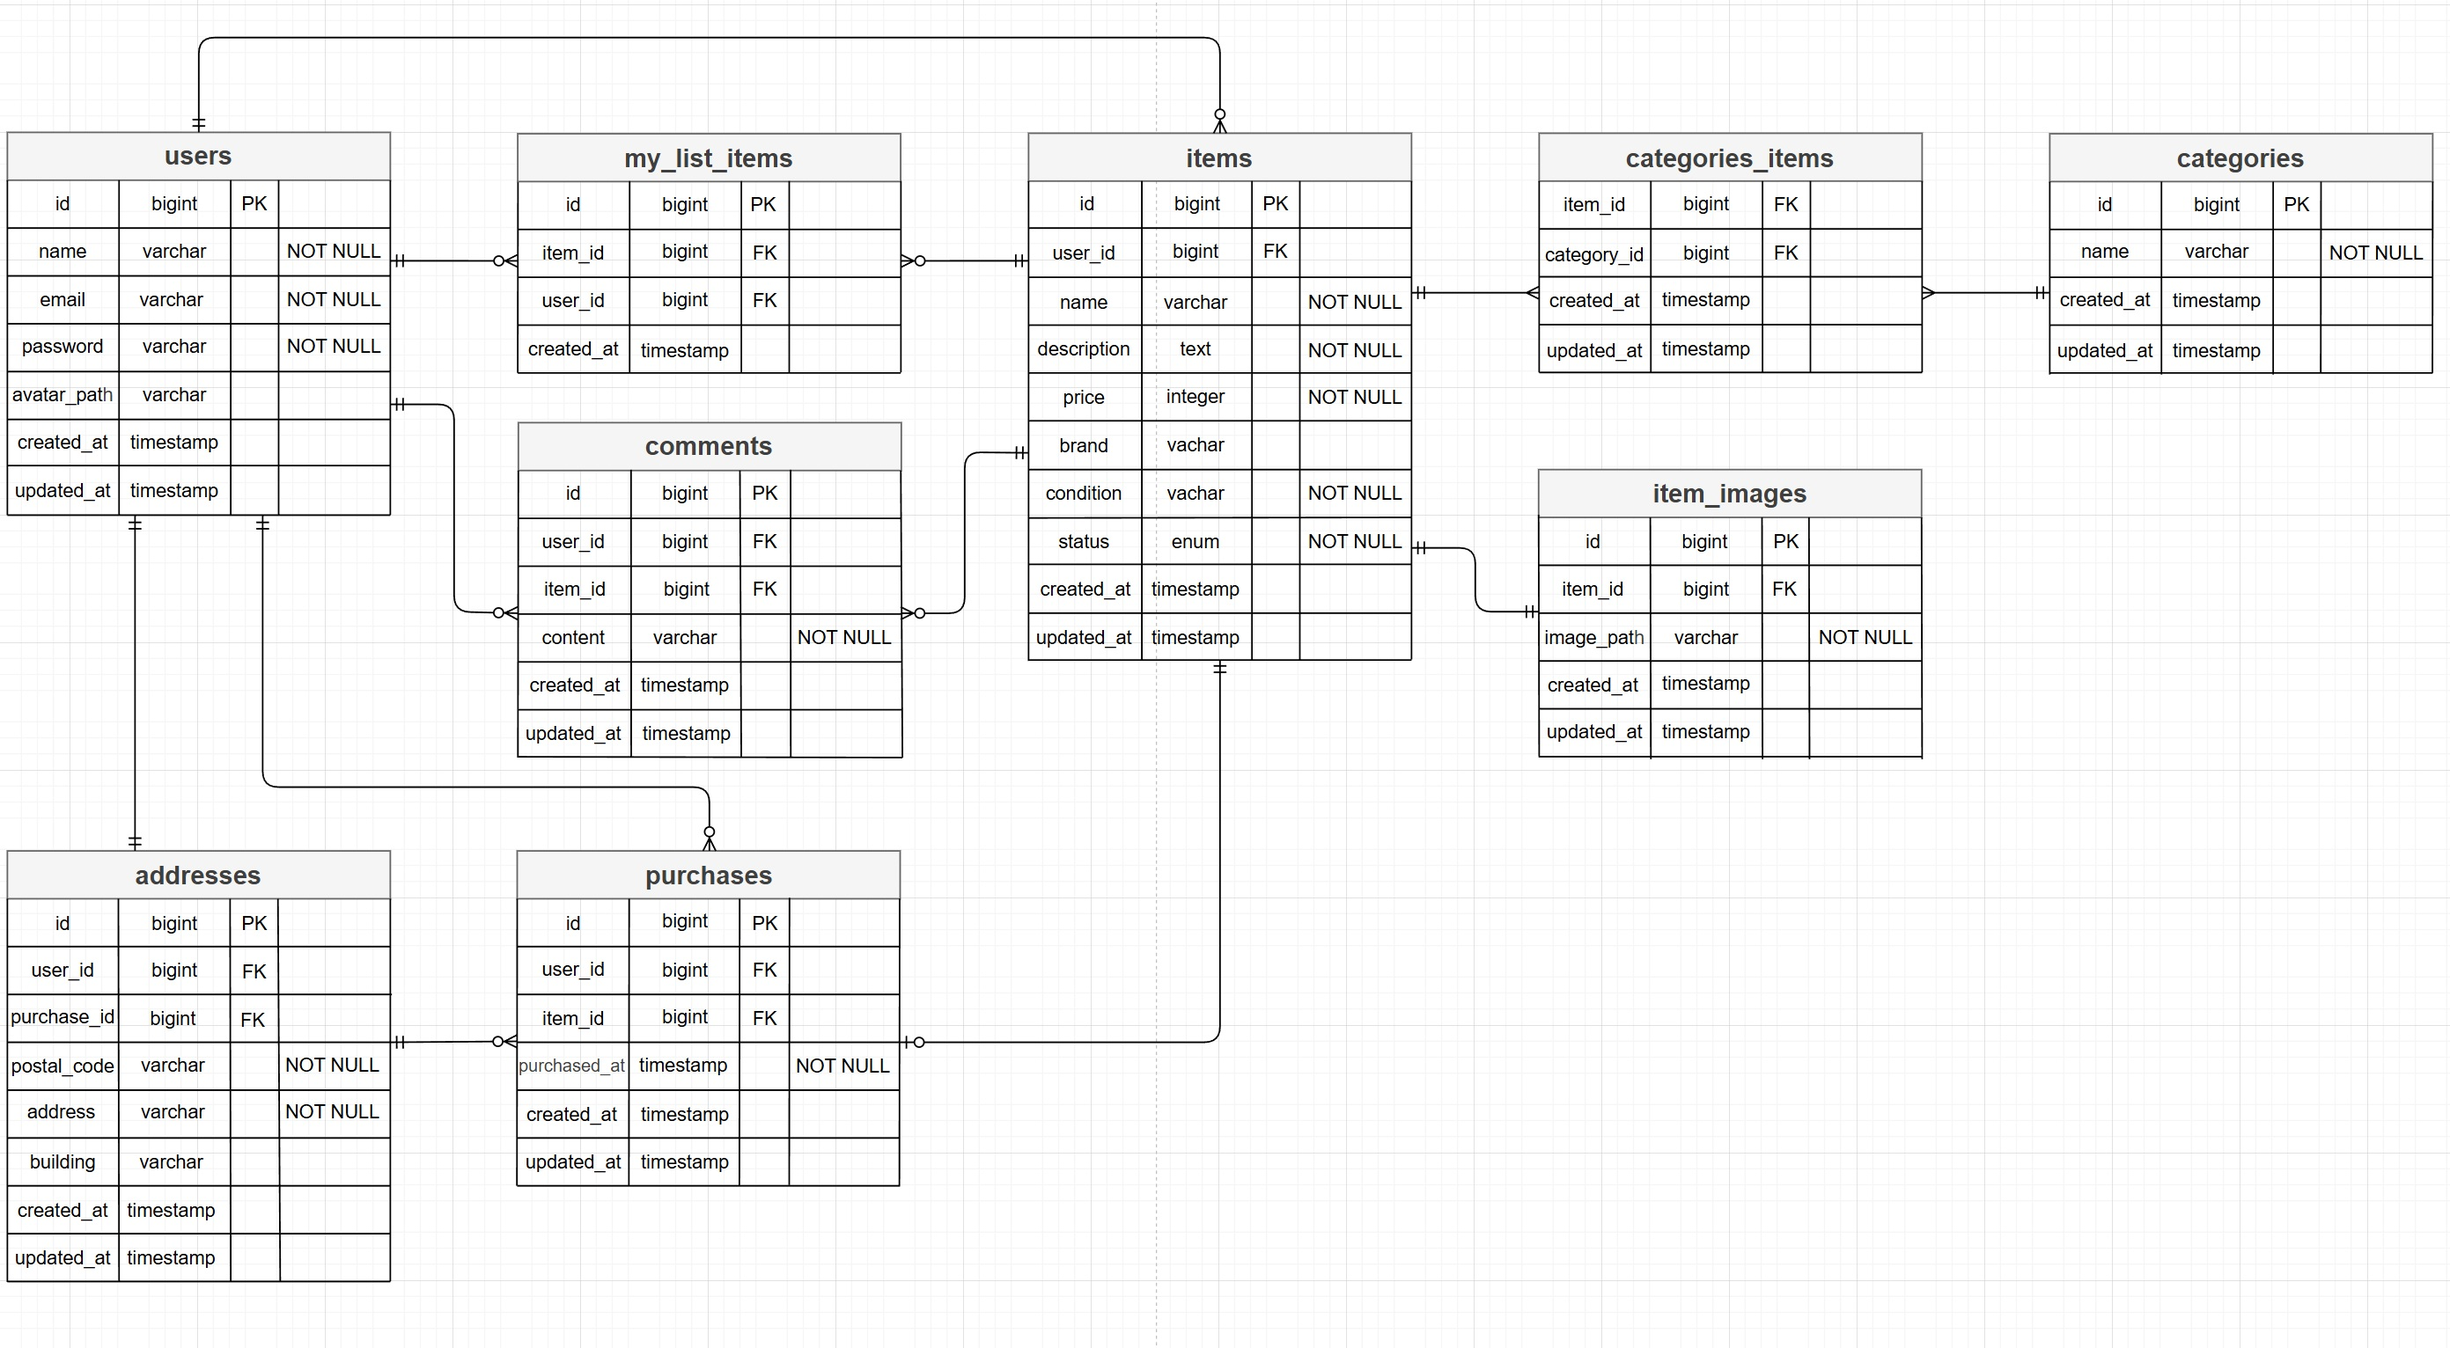
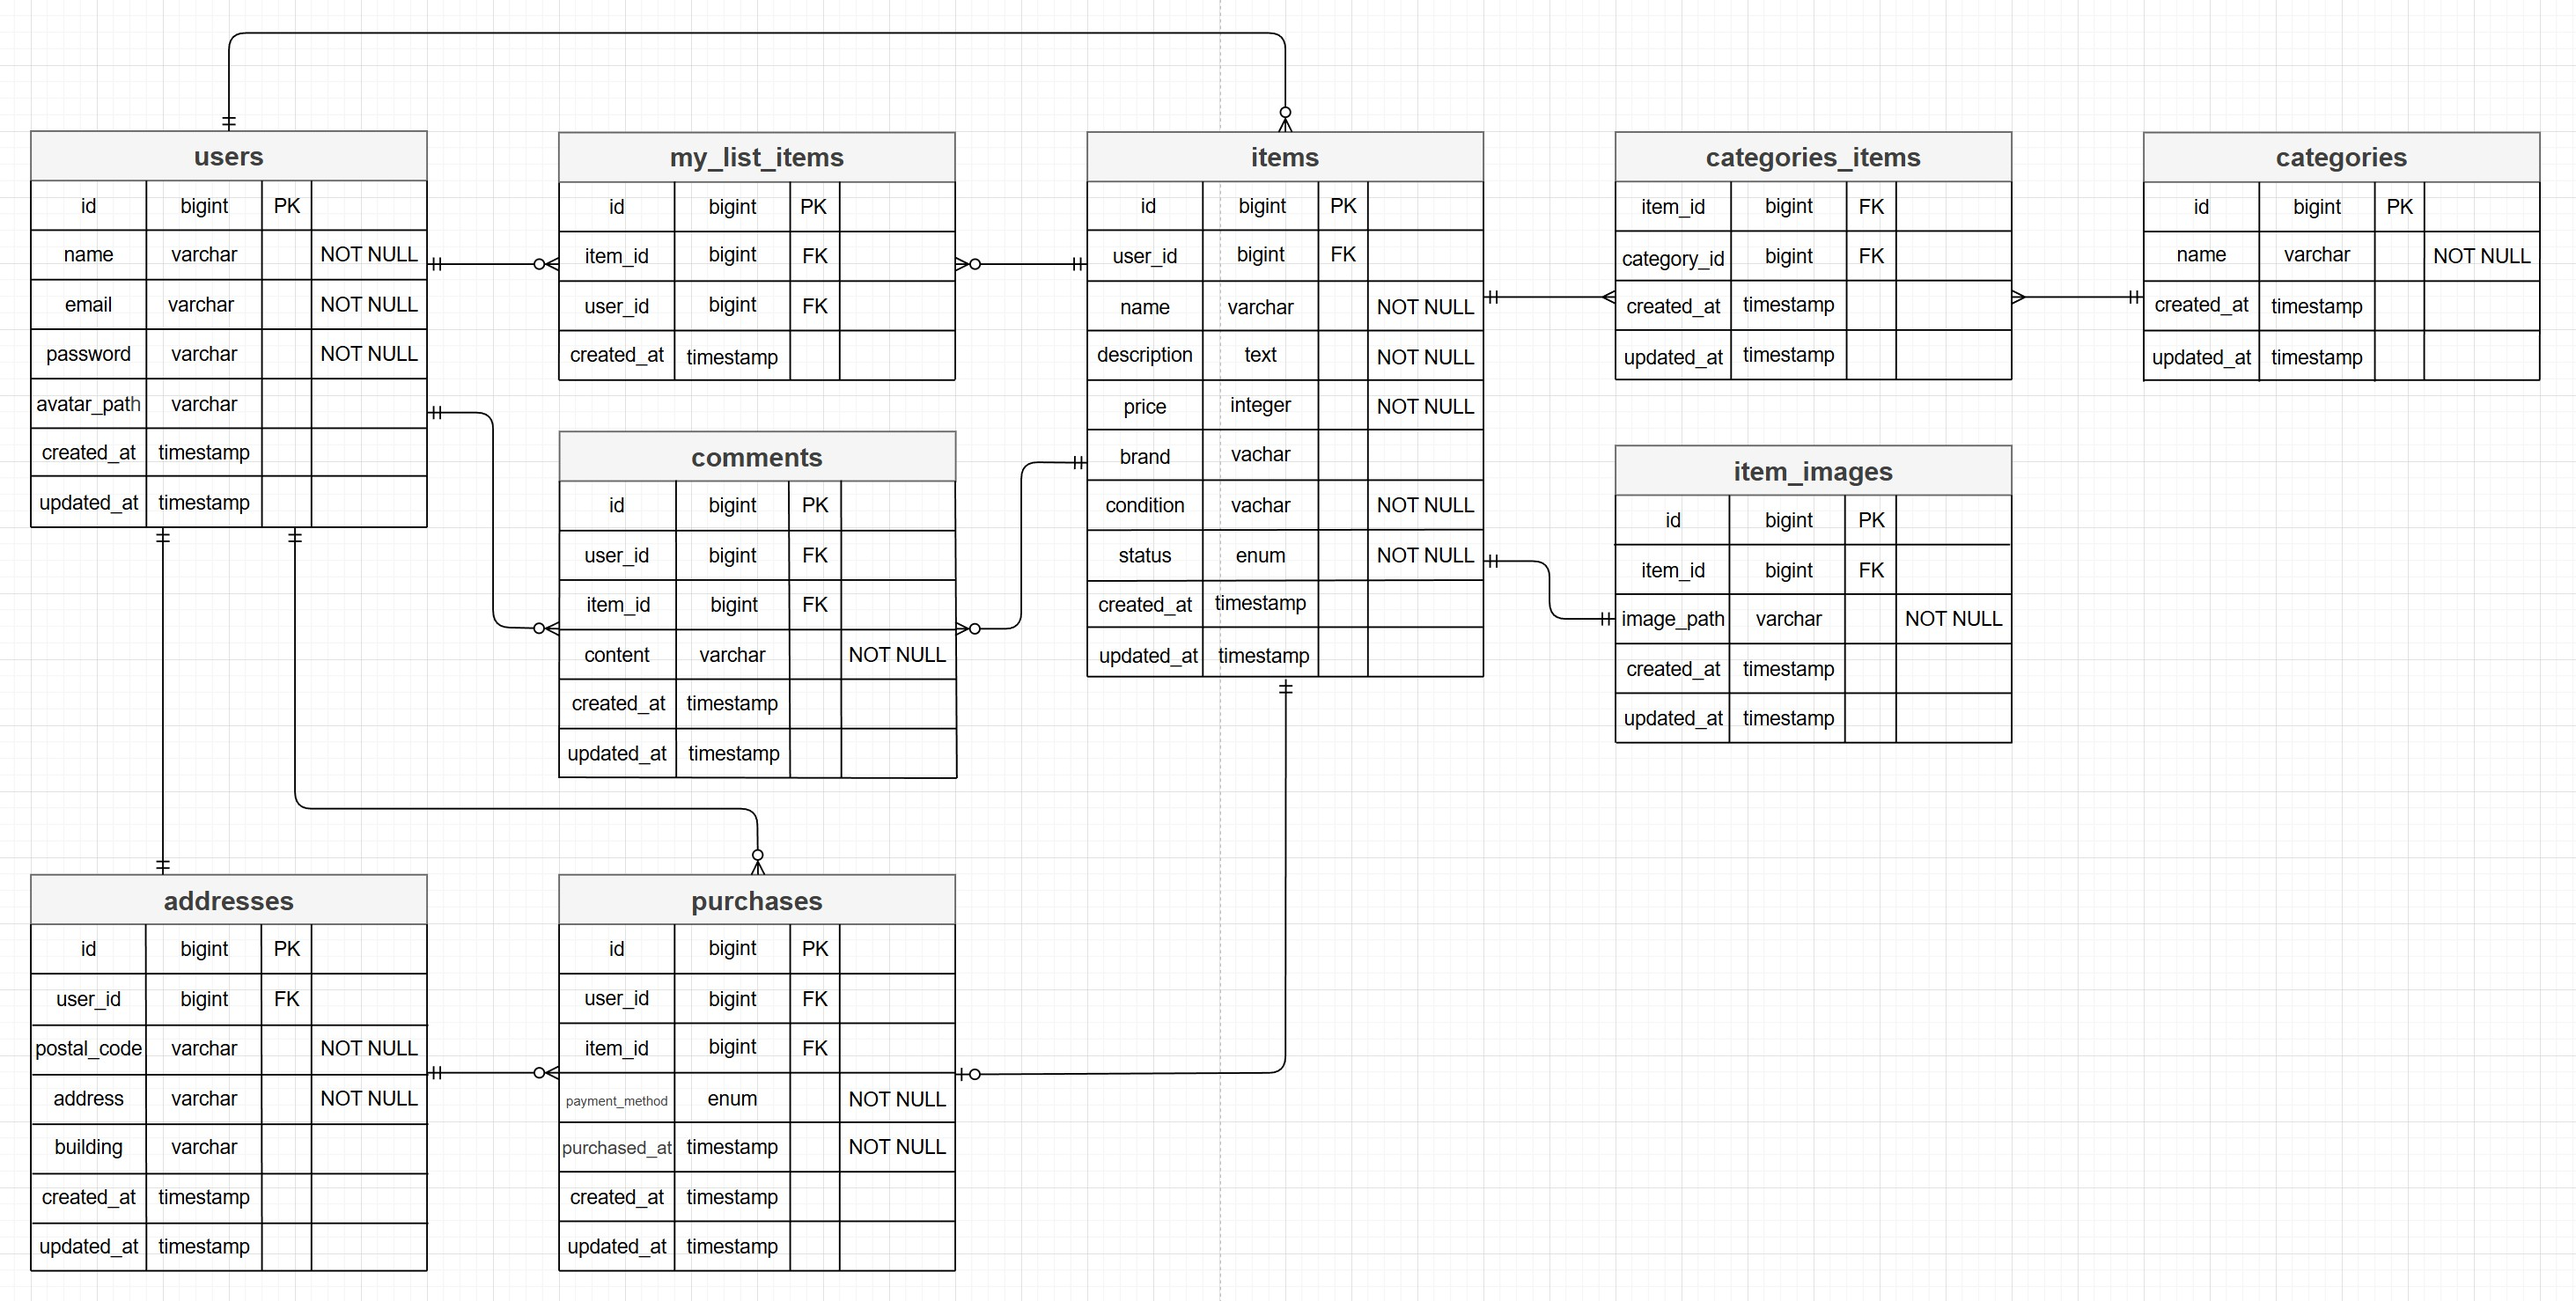
模擬案件フリマアプリ暫定補完版

diff --git a/README.md b/README.md
@@ -247,7 +247,7 @@ volumes:
 
 
 
-# ◎ 📁 ディレクトリ構造（主要部分のみ）
+# ◆ 📁 ディレクトリ構造（主要部分のみ）
 
 ```jsx
 src/
@@ -292,36 +292,213 @@ src/
 ```
 
 
+## ◆ ルート 一覧 (Route)
 
-# ◎ ルート・コントローラー 一覧 (Controller)
+----------------------------------------
+■ 画面名称：商品一覧画面（トップ画面）
+パス：/
+メソッド：GET
+コントローラー：ItemController
+アクション：index
+認証必須：不要
+説明：商品一覧ページ
+----------------------------------------
 
-| 画面名称               | パス                          | メソッド | コントローラー       | アクション   | 認証 | 説明                                                 |
-| ---------------------- | ----------------------------- | -------- | -------------------- | ------------ | ---- | ---------------------------------------------------- |
-| 商品一覧（トップ）     | `/`                           | GET      | ItemController       | index        | 不要 | 商品一覧表示                                         |
-| 商品一覧（マイリスト） | `/?tab=mylist`                | GET      | ItemController       | index        | 必須 | マイリストタブ表示                                   |
-| 会員登録画面           | `/register`                   | GET      | RegisterController   | show         | 不要 | 新規登録フォーム表示（処理は Fortify が担当）        |
-| 会員登録処理           | `/register`                   | POST     | Fortify（内部処理）  | create       | 不要 | 新規登録処理（Controller ではなく Fortify が実行）   |
-| ログイン画面           | `/login`                      | GET      | LoginController      | show         | 不要 | ログインフォーム表示（処理は Fortify が担当）        |
-| ログイン処理           | `/login`                      | POST     | Fortify（内部処理）  | authenticate | 不要 | ログイン処理（Controller ではなく Fortify が実行）   |
-| ログアウト             | `/logout`                     | POST     | Fortify（内部処理）  | logout       | 必須 | ログアウト処理（Controller ではなく Fortify が実行） |
-| 商品詳細               | `/item/{item_id}`             | GET      | ItemController       | show         | 不要 | 商品詳細                                             |
-| いいね追加             | `/item/{item_id}/like`        | POST     | MyListItemController | store        | 必須 | マイリスト追加                                       |
-| コメント投稿           | `/item/{item_id}/comments`    | POST     | CommentController    | store        | 必須 | コメント送信                                         |
-| 購入確認               | `/purchase/{item_id}`         | GET      | PurchaseController   | create       | 必須 | 購入確認画面                                         |
-| 購入処理               | `/purchase/{item_id}`         | POST     | PurchaseController   | store        | 必須 | 購入処理                                             |
-| 住所変更               | `/purchase/address/{item_id}` | GET      | AddressController    | editAddress  | 必須 | 購入時の住所変更                                     |
-| 住所変更処理           | `/purchase/address/{item_id}` | PUT      | AddressController    | updateAdress | 必須 | 住所変更処理                                         |
-| 出品画面               | `/sell`                       | GET      | ItemController       | create       | 必須 | 出品フォーム                                         |
-| 出品処理               | `/sell`                       | POST     | ItemController       | store        | 必須 | 出品処理                                             |
-| マイページ             | `/mypage`                     | GET      | ProfileController    | index        | 必須 | マイページ                                           |
-| プロフィール編集       | `/mypage/profile`             | GET      | ProfileController    | edit         | 必須 | プロフィール編集                                     |
-| プロフィール更新       | `/mypage/profile`             | PUT      | ProfileController    | update       | 必須 | プロフィール更新                                     |
-| 購入履歴タブ           | `/mypage?page=buy`            | GET      | ProfileController    | index        | 必須 | 購入履歴                                             |
-| 出品履歴タブ           | `/mypage?page=sell`           | GET      | ProfileController    | index        | 必須 | 出品履歴                                             |
+■ 画面名称：商品一覧画面（トップ画面）_マイリスト
+パス：/?tab=mylist
+メソッド：GET
+コントローラー：ItemController
+アクション：index
+認証必須：必須
+説明：マイリストタブ表示
+----------------------------------------
+
+■ 画面名称：会員登録画面
+パス：/register
+メソッド：GET
+コントローラー：RegisterController
+アクション：show
+認証必須：不要
+説明：新規登録フォーム
+----------------------------------------
+
+■ 画面名称：会員登録処理
+パス：/register
+メソッド：POST
+コントローラー：RegisterController
+アクション：register
+認証必須：不要
+説明：新規登録画面表示のみ（処理は Fortify）
+----------------------------------------
+
+■ 画面名称：ログイン画面
+パス：/login
+メソッド：GET
+コントローラー：LoginController
+アクション：show
+認証必須：不要
+説明：ログインフォーム
+----------------------------------------
+
+■ 画面名称：ログイン処理
+パス：/login
+メソッド：POST
+コントローラー：LoginController
+アクション：login
+認証必須：不要
+説明：ログイン画面遷移のみ（処理は Fortify）
+----------------------------------------
+
+■ 画面名称：ログアウト
+パス：/logout
+メソッド：POST
+コントローラー：LoginController
+アクション：logout
+認証必須：必須
+説明：ログアウト処理（Fortify）
+----------------------------------------
+
+■ 画面名称：商品詳細画面
+パス：/item/{item_id}
+メソッド：GET
+コントローラー：ItemController
+アクション：show
+認証必須：不要
+説明：商品詳細
+----------------------------------------
+
+■ 画面名称：商品詳細画面_いいね追加
+パス：/item/{item_id}/like
+メソッド：POST
+コントローラー：MyListItemController
+アクション：store
+認証必須：必須
+説明：マイリスト(いいね)追加処理
+----------------------------------------
+
+■ 画面名称：商品詳細画面_コメント投稿
+パス：/item/{item_id}/comments
+メソッド：POST
+コントローラー：CommentController
+アクション：store
+認証必須：必須
+説明：コメント送信処理
+----------------------------------------
+
+■ 画面名称：商品購入画面
+パス：/purchase/{item_id}
+メソッド：GET
+コントローラー：PurchaseController
+アクション：create
+認証必須：必須
+説明：購入確認画面
+----------------------------------------
+
+■ 画面名称：商品購入処理
+パス：/purchase/{item_id}
+メソッド：POST
+コントローラー：PurchaseController
+アクション：store
+認証必須：必須
+説明：購入処理
+----------------------------------------
+
+■ 画面名称：住所変更ページ
+パス：/purchase/address/{item_id}
+メソッド：GET
+コントローラー：AddressController
+アクション：editAddress
+認証必須：必須
+説明：購入時の住所変更
+----------------------------------------
+
+■ 画面名称：住所変更処理
+パス：/purchase/address/{item_id}
+メソッド：PUT
+コントローラー：AddressController
+アクション：updateAdress
+認証必須：必須
+説明：購入時の住所変更処理
+----------------------------------------
+
+■ 画面名称：商品出品画面
+パス：/sell
+メソッド：GET
+コントローラー：ItemController
+アクション：create
+認証必須：必須
+説明：出品フォーム
+----------------------------------------
+
+■ 画面名称：商品出品処理
+パス：/sell
+メソッド：POST
+コントローラー：ItemController
+アクション：store
+認証必須：必須
+説明：出品処理
+----------------------------------------
+
+■ 画面名称：プロフィール画面
+パス：/mypage
+メソッド：GET
+コントローラー：ProfileController
+アクション：index
+認証必須：必須
+説明：マイページ
+----------------------------------------
+
+■ 画面名称：プロフィール編集画面
+パス：/mypage/profile
+メソッド：GET
+コントローラー：ProfileController
+アクション：edit
+認証必須：必須
+説明：プロフィール編集
+----------------------------------------
+
+■ 画面名称：プロフィール更新処理
+パス：/mypage/profile
+メソッド：PUT
+コントローラー：ProfileController
+アクション：update
+認証必須：必須
+説明：プロフィール更新
+----------------------------------------
+
+■ 画面名称：プロフィール画面_購入した商品一覧
+パス：/mypage?page=buy
+メソッド：GET
+コントローラー：ProfileController
+アクション：index
+認証必須：必須
+説明：購入履歴タブ
+----------------------------------------
+
+■ 画面名称：プロフィール画面_出品した商品一覧
+パス：/mypage?page=sell
+メソッド：GET
+コントローラー：ProfileController
+アクション：index
+認証必須：必須
+説明：出品履歴タブ
+----------------------------------------
+
+## ◆　コントローラー 一覧（Controller）
+
+| コントローラーファイル名     | 説明                                                                 |
+| ---------------------------- | -------------------------------------------------------------------- |
+| ItemController.php           | 商品一覧・詳細・出品フォーム・出品処理を管理                         |
+| MyListItemController.php     | マイリスト（お気に入り）追加を管理                                   |
+| CommentController.php        | 商品へのコメント投稿を管理                                           |
+| PurchaseController.php       | 購入確認画面・購入処理を管理                                         |
+| AddressController.php        | 購入時の住所変更画面・住所更新処理を管理                             |
+| ProfileController.php        | マイページ、購入履歴・出品履歴、プロフィール編集・更新を管理         |
+| RegisterController.php       | 会員登録フォーム表示（処理は Fortify が担当）                        |
+| LoginController.php          | ログインフォーム表示（処理は Fortify が担当）                        |
 
 
-
-# ◎ モデル一覧（Model）
+## ◆ モデル 一覧（Model）
 
 | モデルファイル名 | 説明                                                                                 |
 | ---------------- | ------------------------------------------------------------------------------------ |
@@ -336,7 +513,7 @@ src/
 
 
 
-# ◎ ビュー一覧（Bladeファイル）
+## ◆ ビュー 一覧（Bladeファイル）
 
 | 画面名称                         | Bladeファイル名                 |
 | -------------------------------- | ------------------------------- |
@@ -353,7 +530,7 @@ src/
 
 
 
-# ◎ CSS ファイル一覧
+## ◆ CSS ファイル一覧
 
 | ファイル名         | 説明                                                 |
 | ------------------ | ---------------------------------------------------- |
@@ -368,7 +545,7 @@ src/
 
 
 
-# ◎ JavaScript ファイル一覧
+## ◆ JavaScript ファイル一覧
 
 | ファイル名               | 説明                                                   |
 | ------------------------ | ------------------------------------------------------ |
@@ -461,7 +638,3 @@ UI/UX に関わる重要な仕様が一部欠落していたため、
 # ◎ 📄 ライセンス
 
 このプロジェクトは学習目的で作成されています。
-
-
-
-以上になります。
